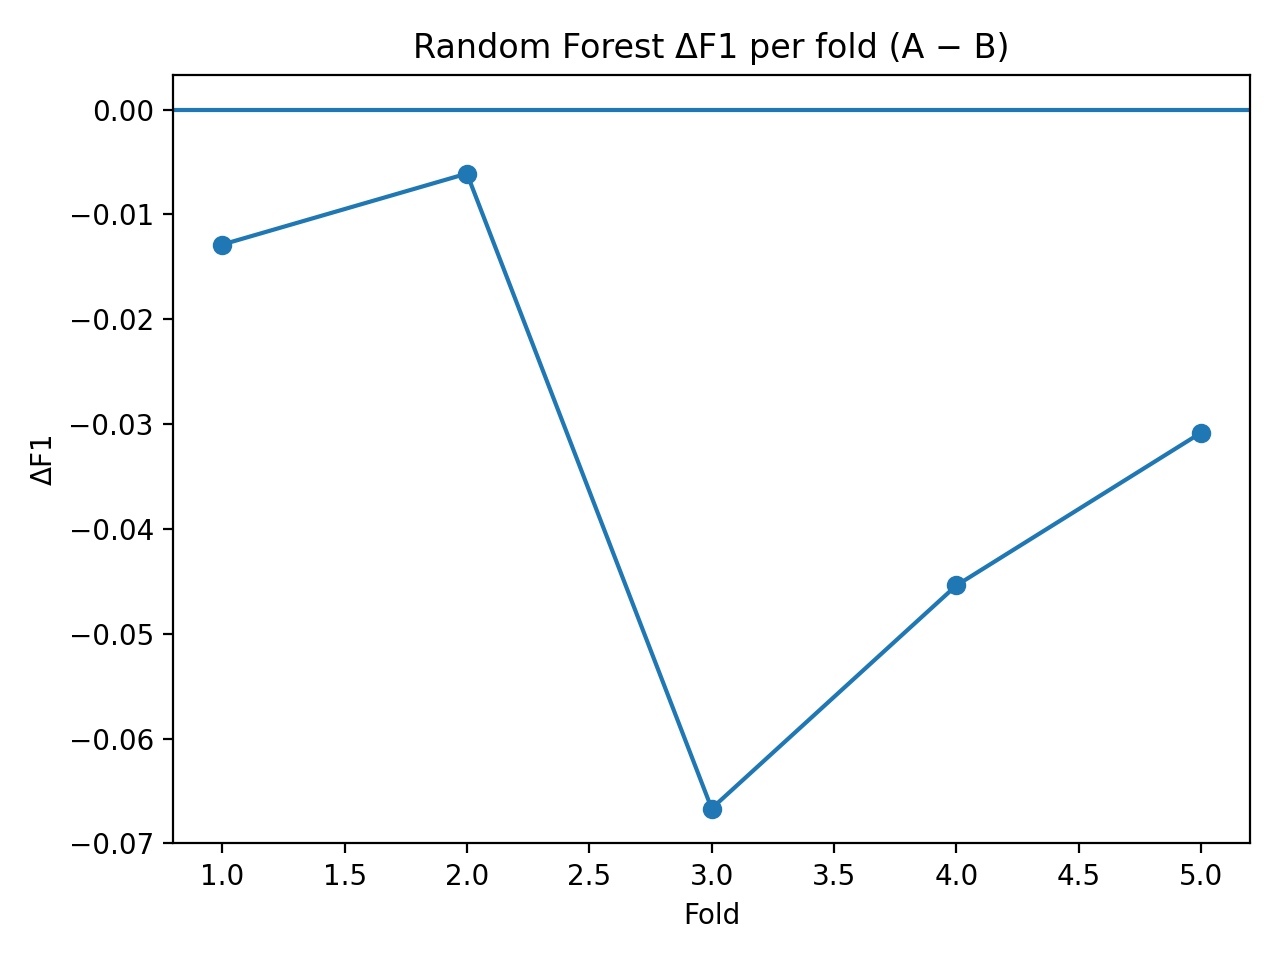
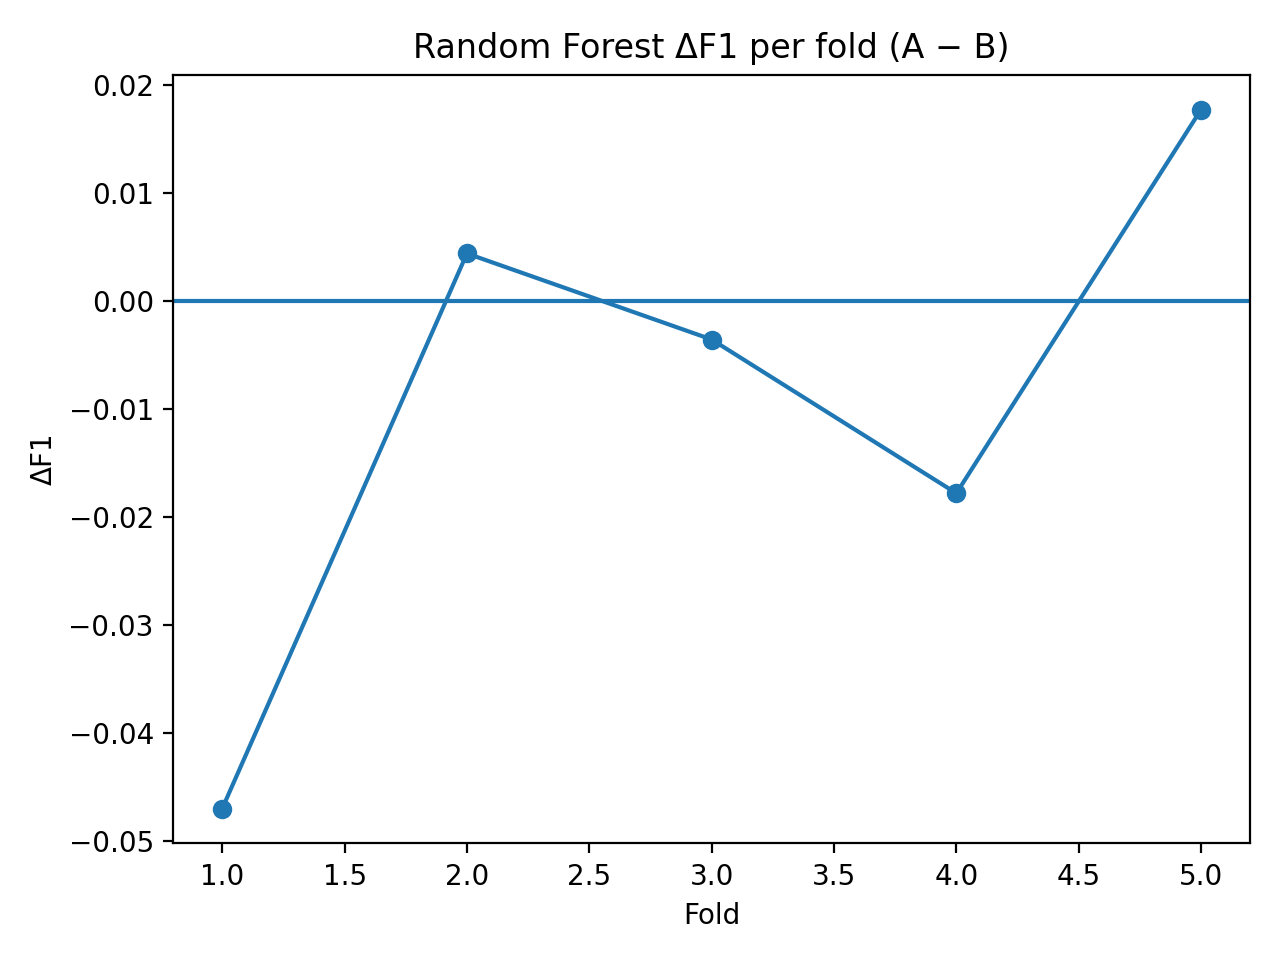
Added some new plots and utility scripts

diff --git a/phase1_dataset/scripts/experiments/common/confusion_matrix.py b/phase1_dataset/scripts/experiments/common/confusion_matrix.py
@@ -1,0 +1,27 @@
+import matplotlib.pyplot as plt
+import seaborn as sns
+import numpy as np
+
+cm_data = np.array([[81, 19],
+                       [4, 96]])
+
+# Labels
+group_names = ['True Neg','False Pos','False Neg','True Pos']
+group_counts = ["{0:0.0f}".format(value) for value in cm_data.flatten()]
+
+row_sums = cm_data.sum(axis=1)
+group_percentages = ["{0:.2%}".format(value) for value in (cm_data.T / row_sums).T.flatten()]
+
+labels = [f"{v1}\n{v2}\n{v3}" for v1, v2, v3 in zip(group_names, group_counts, group_percentages)]
+labels = np.asarray(labels).reshape(2,2)
+
+# --- PLOTTING ---
+plt.figure(figsize=(6, 5))
+ax = sns.heatmap(cm_data, annot=labels, fmt='', cmap='Blues', cbar=False,
+                 xticklabels=['Legitimate', 'Phishing'],
+                 yticklabels=['Legitimate', 'Phishing'])
+
+plt.title('Confusion Matrix: LLM Zero-Shot (Condition B)', fontsize=14)
+plt.ylabel('Actual Label', fontsize=12)
+plt.xlabel('Predicted Label', fontsize=12)
+plt.show()

diff --git a/phase1_dataset/scripts/experiments/common/paired_t-test.py b/phase1_dataset/scripts/experiments/common/paired_t-test.py
@@ -1,0 +1,27 @@
+import numpy as np
+from scipy import stats
+
+# These are the 5 'delta_f1' values from your Random Forest Seed 9 JSON
+deltas = [-0.004327443202308046, 0.008766322710254792, 0.008403361344537785, 0.0, 0.0]
+
+# 1. Calculate Mean Difference
+mean_delta = np.mean(deltas)
+# Result: -0.00928
+print(mean_delta)
+
+std_dev = np.std(deltas, ddof=1)
+n = 5
+se = std_dev / np.sqrt(n)
+print(se)
+# Result: 0.01105
+
+# 3. Calculate t-statistic
+t_stat = mean_delta / se
+print(t_stat)
+# Result: -0.84
+
+# 4. Calculate p-value (Two-tailed)
+df = n - 1  # Degrees of freedom (4)
+p_val = stats.t.sf(np.abs(t_stat), df) * 2
+print(p_val)
+# Result: 0.448
